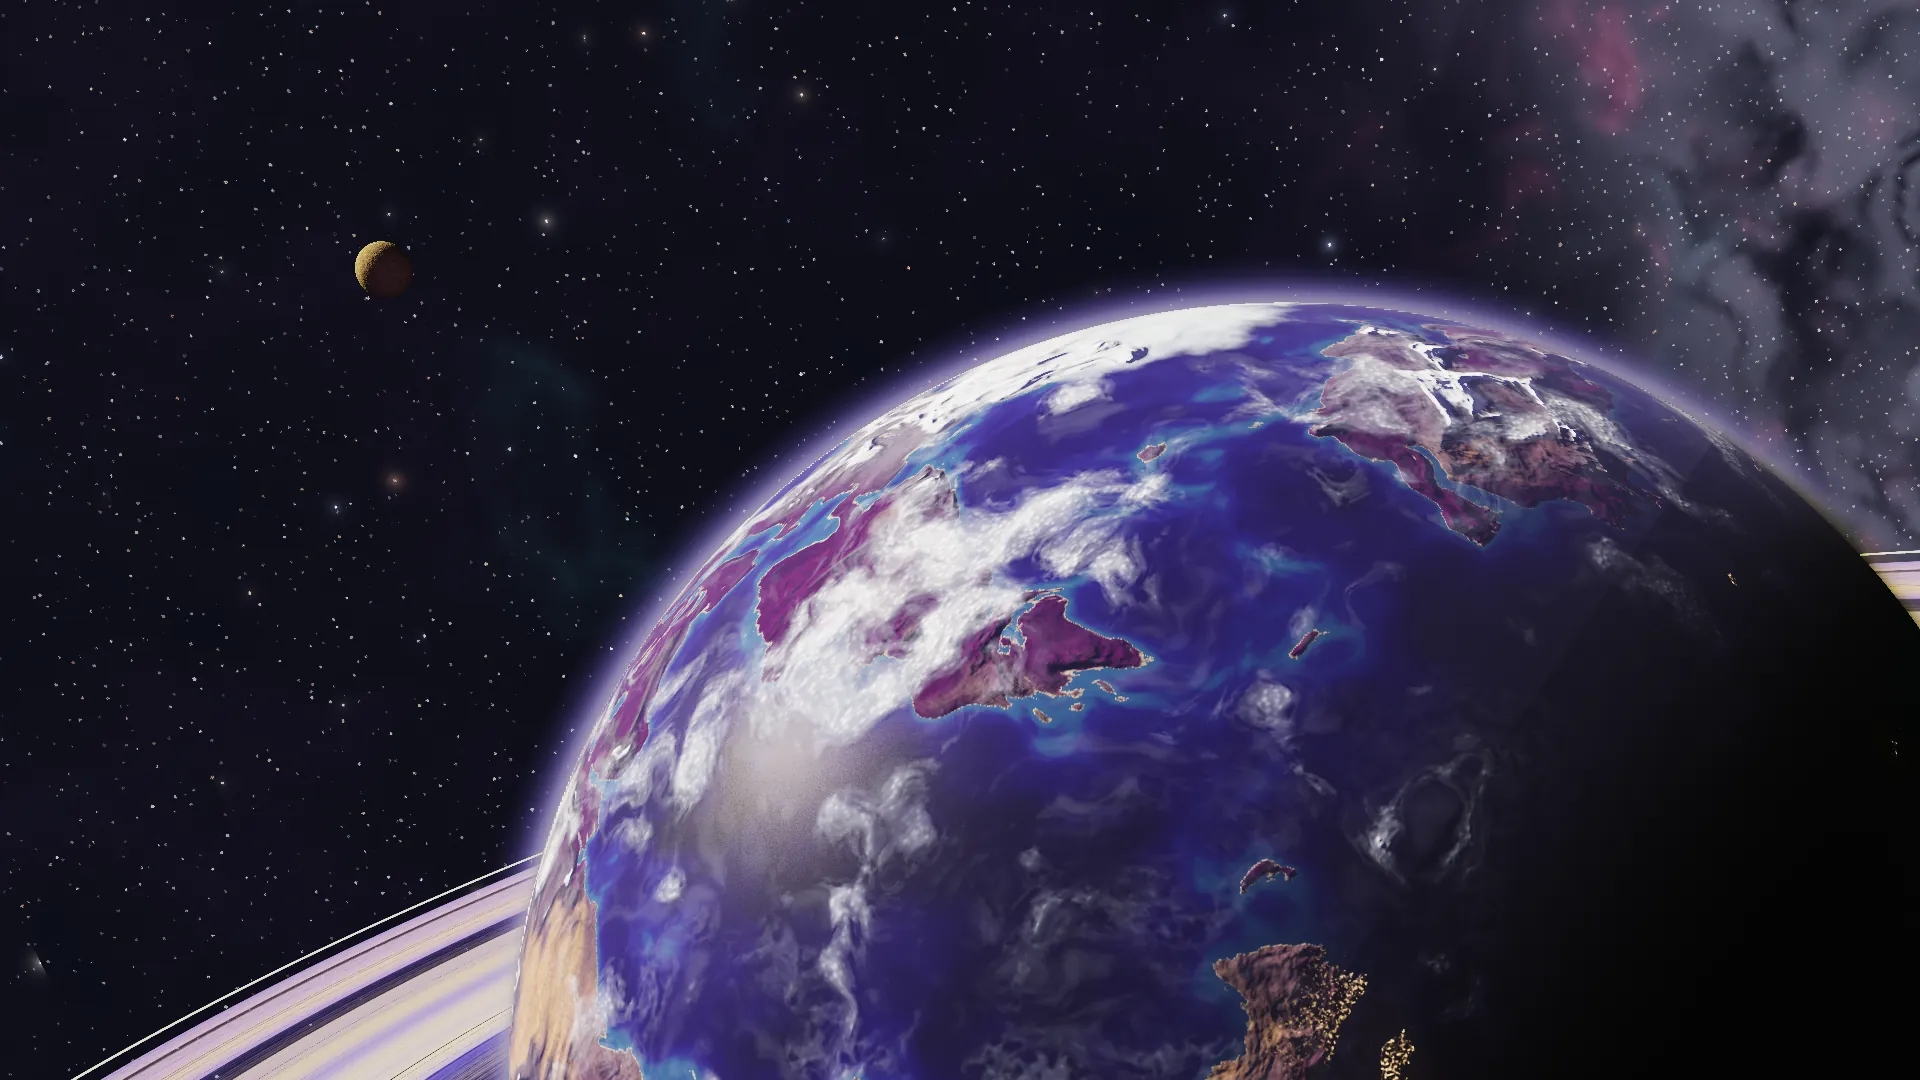
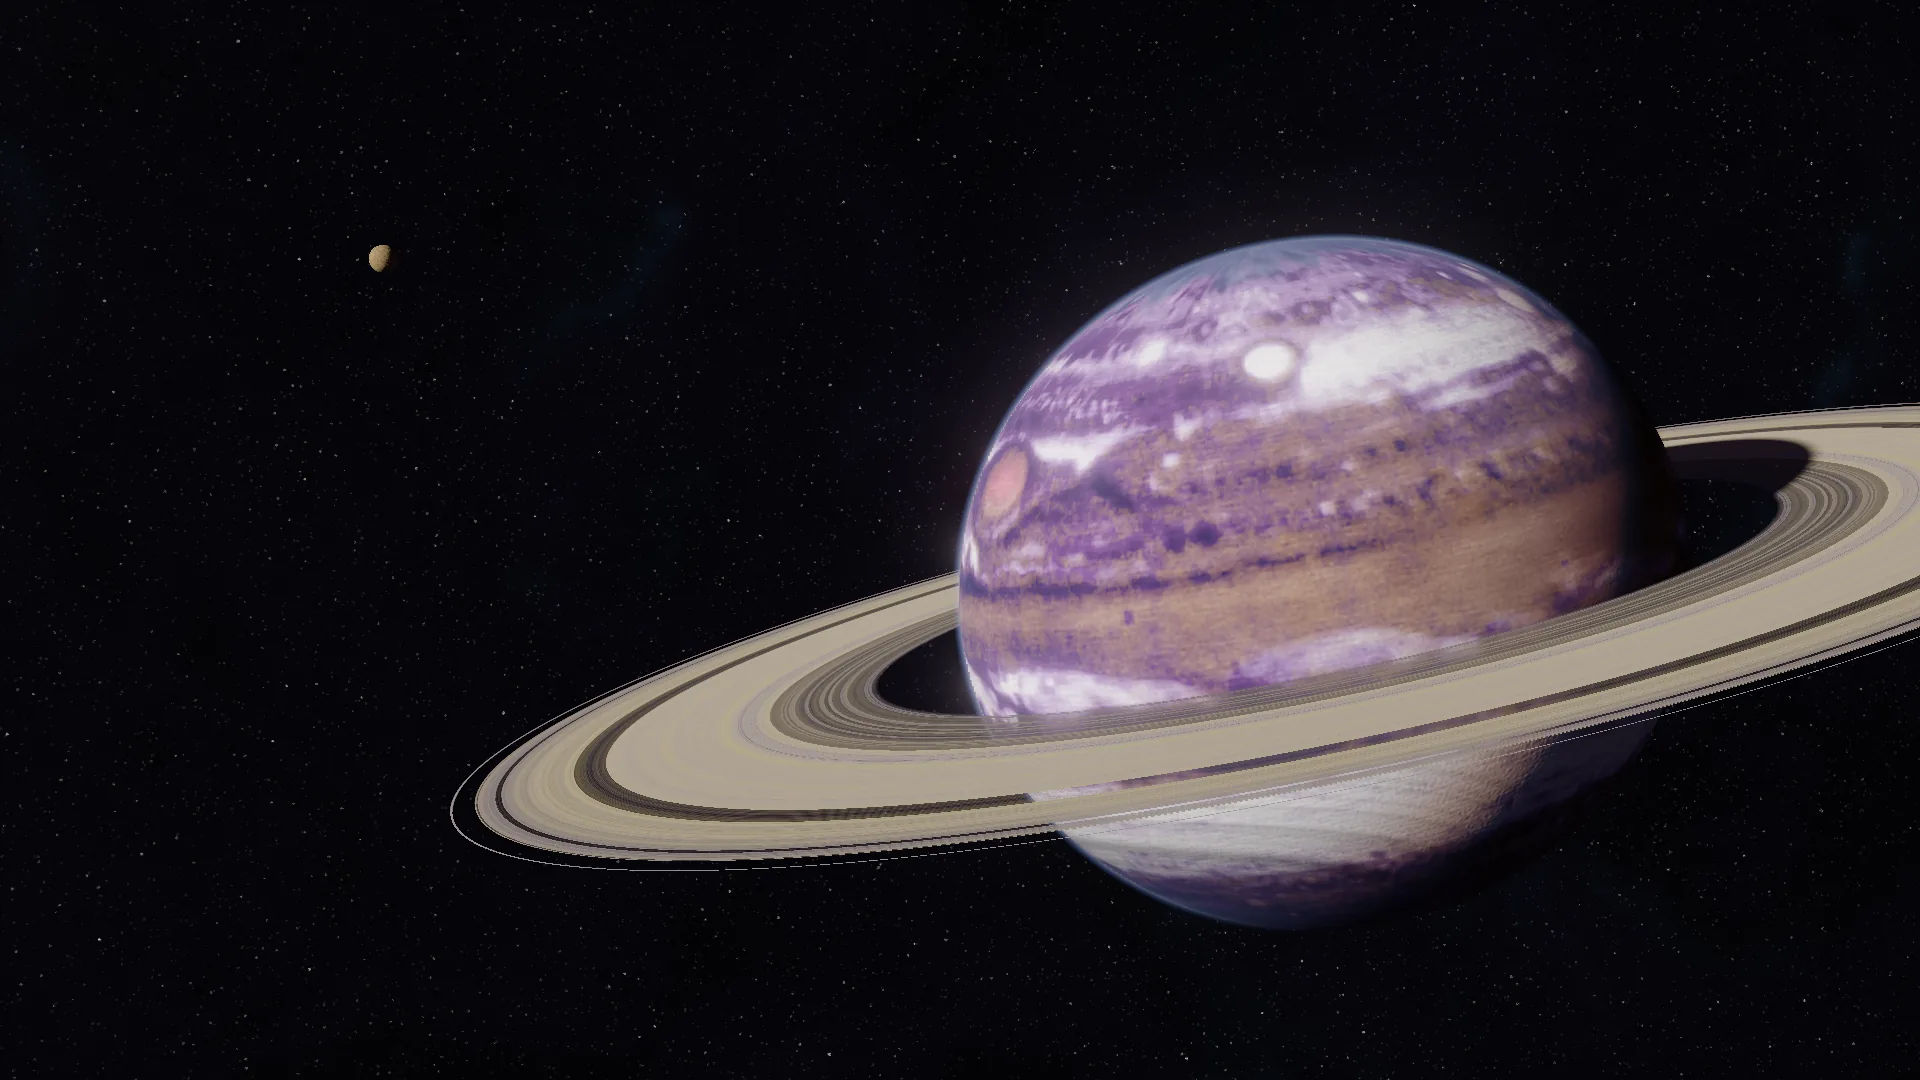
The install: a real cloud deck, a ringed giant at full view
The planet's clouds are NASA/JPL's map of Jupiter (NASA 3D Resources,
free and without copyright), regraded to violet, lilac and gold, its
great storm turned rose, the mosaic's seams taken out, written by
tools/gas-giant.py (which can still simulate a deck of its own). The
shot settles on the whole planet: lit from the front-left, its rings of
ringlets across it in warm light, the gold moon beyond, fewer and
fainter stars, as an exposure set for a sunlit planet would show. The
dive grows the planet a little sooner; the stills are redrawn; a line
credits the map.

Claude-Session: https://claude.ai/code/session_012Fnd9WmNXpFM67BjHTitR7

diff --git a/assets/js/world.js b/assets/js/world.js
@@ -145,7 +145,7 @@ vec3 sky(vec3 rd){
   vec2 uv2=vec2(fract(uv.x+0.5),uv.y), dx=dFdx(uv), dy=dFdy(uv), dx2=dFdx(uv2), dy2=dFdy(uv2);
   if(abs(dx2.x)<abs(dx.x))dx.x=dx2.x; if(abs(dy2.x)<abs(dy.x))dy.x=dy2.x;
   vec4 s=textureGrad(uSky,uv,dx,dy);
-  vec3 c=s.rgb*0.55+stars(d,s.a)*0.16;
+  vec3 c=s.rgb*0.5+stars(d,s.a)*0.09;
   float a=acos(clamp(dot(rd,uSun),-1.0,1.0));
   c+=vec3(1.0,0.97,0.9)*4000.0*smoothstep(0.0052,0.0046,a);
   return c;
@@ -170,7 +170,7 @@ vec4 ring(vec3 ro,vec3 rd,out float t){
   float sh=lightThrough(X);
   float ph=dot(rd,uSun);
   vec3 c;
-  if(sign(lt.y)==sign(o3.y)) c=rs.rgb*SUNI*0.1*(mu0/(mu0+mu))*(0.8+0.4*(1.0-ph))*(0.55+0.45*smoothstep(0.0,0.7,rs.a));
+  if(sign(lt.y)==sign(o3.y)) c=rs.rgb*vec3(1.0,0.93,0.84)*SUNI*0.075*(mu0/(mu0+mu))*(0.8+0.4*(1.0-ph))*(0.5+0.5*smoothstep(0.0,0.7,rs.a));
   else { float g=0.6, hg=(1.0-g*g)/pow(1.0+g*g-2.0*g*ph,1.5); c=rs.rgb*SUNI*0.05*(1.0-exp(-tau/mu0))*exp(-tau*0.5/mu)*hg/max(a,0.02); }
   c*=sh;
   /* the planet's own light on the ring's dark side */
@@ -201,6 +201,14 @@ vec3 cloudDeck(vec3 P,vec3 rd){
   if(abs(dx2.x)<abs(dx.x))dx.x=dx2.x; if(abs(dy2.x)<abs(dy.x))dy.x=dy2.x;
   vec4 a=textureGrad(uAlb,uv,dx,dy);
   vec3 alb=a.rgb;
+  /* finer than the map: streaks drawn out along the bands, fading where they would shimmer */
+  float px=length(dx)*uAlbSize.x;
+  float near=1.0-smoothstep(0.6,2.5,px);
+  if(near>0.0){
+    vec3 sp=pp*vec3(1.0,3.2,1.0);
+    float d=snoise(sp*900.0)*0.6+snoise(sp*2300.0+7.0)*0.4;
+    alb*=1.0+0.035*d*near;
+  }
   /* the deck's relief: bright cloud stands a little higher */
   float coslat=max(sqrt(1.0-pp.y*pp.y),0.05);
   vec2 ex=vec2(max(1.0/uAlbSize.x,abs(dx.x)+abs(dy.x)),0.0), ey=vec2(0.0,max(1.0/uAlbSize.y,abs(dx.y)+abs(dy.y)));

diff --git a/assets/js/install.js b/assets/js/install.js
@@ -29,7 +29,7 @@ function bezier(x1, y1, x2, y2) {
   };
 }
 /* the shot is slow on purpose: a long ease into the move, a long glide, a long settle */
-const easeDolly = bezier(0.72, 0, 0.18, 1), easeTurn = bezier(0.5, 0, 0.3, 1), easeAim = bezier(0.6, 0, 0.3, 1);
+const easeDolly = bezier(0.5, 0, 0.2, 1), easeTurn = bezier(0.5, 0, 0.3, 1), easeAim = bezier(0.6, 0, 0.3, 1);
 
 /* vectors and 3×3 rotations (row-major; uploaded transposed) */
 const add = (a, b) => [a[0] + b[0], a[1] + b[1], a[2] + b[2]];
@@ -50,10 +50,10 @@ const mv = (A, v) => [A[0] * v[0] + A[1] * v[1] + A[2] * v[2], A[3] * v[0] + A[4
    the planet sits at rest on the screen (its centre from the screen's centre,
    y up, and its radius, in screen heights; the moon's place likewise) */
 export const TUNE = {
-  sun: [-0.85, 0.1, -0.2], tiltZ: 0.38, tiltX: -0.12, sky: [2.2, -0.2],
-  rest: { az: 0.0, el: 0.36, roll: 0.16, d: 4.4 }, from: { az: -0.8, el: 0.6, roll: 0.4 },
-  land: { R: 0.5, cx: 0.16, cy: -0.17, moon: [-0.32, 0.28], moonR: 6.0 },
-  port: { R: 0.34, cx: 0.12, cy: -0.36, moon: [-0.26, 0.02], moonR: 5.0 },
+  sun: [-0.72, 0.32, 0.55], tiltZ: 0.38, tiltX: -0.12, sky: [1.2, 0.6],
+  rest: { az: 0.0, el: 0.3, roll: 0.18, d: 6.5 }, from: { az: -0.8, el: 0.55, roll: 0.4 },
+  land: { R: 0.34, cx: 0.19, cy: -0.04, moon: [-0.3, 0.26], moonR: 8.0 },
+  port: { R: 0.2, cx: 0.1, cy: -0.2, moon: [-0.3, 0.02], moonR: 8.0 },
 };
 let SUN, TILT, TO_TILT, SKY, REST, FROM;
 function world0() {

diff --git a/assets/site.css b/assets/site.css
@@ -1039,6 +1039,9 @@ body.withdrawing .pad.docs .reader{animation:chromeout .45s ease both}
 #installpad .from{margin:16px 2px 0;font:13.5px/1.6 var(--ui);color:rgba(214,210,232,.7);max-width:46ch}
 #installpad .from code{font:12.5px var(--mono);color:rgba(236,232,248,.85)}
 #installpad .doorfoot.by{z-index:3;color:rgba(214,210,232,.55)}
+#installpad .credit{position:absolute;z-index:3;right:24px;bottom:calc(18px + env(safe-area-inset-bottom,0px));margin:0;font:10.5px/1.4 var(--mono);letter-spacing:.04em;color:rgba(214,210,232,.42);max-width:calc(100% - 48px);text-align:right}
+#installpad.forming .credit{opacity:0}
+@media (max-width:560px){#installpad .credit{bottom:calc(46px + env(safe-area-inset-bottom,0px))}}
 #installpad .doorfoot.by a{color:rgba(214,210,232,.75)}
 @media (max-aspect-ratio:10/11){
   #installpad .scrim{background:linear-gradient(180deg,rgba(3,4,10,.6),rgba(3,4,10,.2) 45%,transparent 60%)}

diff --git a/index.html b/index.html
@@ -317,6 +317,7 @@
       <p class="theline"><code data-copy="curl -fsSL https://raw.githubusercontent.com/tomlawesome/orbit/main/scripts/get-orbit.sh | bash" title="Copy"><span class="prompt">$</span>curl -fsSL https://raw.githubusercontent.com/tomlawesome/orbit/main/scripts/get-orbit.sh | bash</code><button class="copy" type="button" data-copy="curl -fsSL https://raw.githubusercontent.com/tomlawesome/orbit/main/scripts/get-orbit.sh | bash" aria-label="Copy the install command">copy</button></p>
       <p class="from">From an empty directory on a Linux host with Docker Compose v2 and <code>curl</code>.</p>
     </div>
+    <p class="credit">The planet's clouds are NASA/JPL's map of Jupiter, recoloured.</p>
     <p class="doorfoot by">A <a href="https://tomlawson.io">tomlawson.io</a> project</p>
   </div>
   <div class="pad docs" id="docspad" hidden>

diff --git a/tools/gas-giant.py b/tools/gas-giant.py
@@ -35,6 +35,8 @@ ap.add_argument("--seed", type=int, default=1729)
 ap.add_argument("--beta", type=float, default=150.0)
 ap.add_argument("--jet", type=float, default=1.0)
 ap.add_argument("--ovals", type=int, default=22)
+ap.add_argument("--stir", type=float, default=1.0)
+ap.add_argument("--base", default=None, help="a real planet's map to start from (equirectangular); its bands set the jets")
 args = ap.parse_args()
 
 W = 4
@@ -105,9 +107,52 @@ for i, c in enumerate(colours):
 soft = lambda a: inv(fwd(a) * np.exp(-(k / 300) ** 2))
 band_rgb = np.dstack([soft(band_rgb[..., j]) for j in range(3)])
 band_tone = soft(band_tone)
+# texture at every scale inside the bands: long streaks, shorter ones, puffs of cloud
 streak = noise(streaky(24, 120, 10), 1.0)
-band_rgb *= (1 + 0.07 * streak)[..., None]
+fine = noise(streaky(120, 500, 60), 1.0)
+puffs = noise(ring(150, 600), 1.0)
+band_rgb *= (1 + 0.09 * streak + 0.07 * fine + 0.05 * puffs)[..., None]
 band_tone += 0.05 * streak
+
+# OR A REAL PLANET'S MAP: its light and its warmth, regraded to violet and gold; its bands set the jets
+if args.base:
+    base = np.asarray(Image.open(args.base).convert("RGB").resize((NX, NY), Image.BICUBIC), dtype=float)[::-1] / 255.0
+    # the mosaic's seams: steps from column to column that the planet does not have
+    from scipy.ndimage import gaussian_filter1d
+    rows = np.abs(lat) < 1.2
+    cols = base[rows].mean(axis=0)
+    base = np.clip(base - (cols - gaussian_filter1d(cols, NX / 60, axis=0, mode="wrap"))[None, :, :], 0, 1)
+    lin = base ** 2.2
+    Lb = (0.2126 * lin[..., 0] + 0.7152 * lin[..., 1] + 0.0722 * lin[..., 2])
+    Lb = (Lb - np.percentile(Lb, 2)) / (np.percentile(Lb, 98) - np.percentile(Lb, 2)); Lb = np.clip(Lb, 0, 1)
+    rb = (base[..., 0] - base[..., 2]) / (base[..., 0] + base[..., 2] + 1e-3)
+    warmth = np.clip((rb - np.percentile(rb, 60)) / (np.percentile(rb, 97) - np.percentile(rb, 60)), 0, 1)   # only where it is warmer than the planet is
+    stops = [(0.0, srgb(34, 16, 52)), (0.3, srgb(88, 44, 104)), (0.55, srgb(160, 120, 184)), (0.8, srgb(222, 208, 236)), (1.0, srgb(246, 240, 250))]
+    def grade(v):
+        out = np.zeros(v.shape + (3,))
+        for (a, ca), (b, cb) in zip(stops[:-1], stops[1:]):
+            m = (v >= a) & (v <= b); t_ = ((v - a) / (b - a))[m][..., None]; out[m] = ca + (cb - ca) * t_
+        return out
+    v = Lb ** 0.85
+    band_rgb = grade(v)
+    gold = (srgb(140, 92, 48) + (srgb(244, 214, 158) - srgb(140, 92, 48)) * v[..., None])
+    band_rgb = band_rgb + (gold - band_rgb) * (warmth * 0.6)[..., None]
+    rg = base[..., 0] - base[..., 1]
+    # the great storm turns rose: the reddest oval, found where the red is broadest, and only there
+    from scipy.ndimage import gaussian_filter
+    rgs = gaussian_filter(rg, (NY / 120, NX / 120), mode="wrap")
+    cy_, cx_ = np.unravel_index(np.argmax(rgs * (np.abs(LAT) < 0.8)), rgs.shape)
+    near = np.exp(-(((X - x[cx_] + np.pi) % L - np.pi) ** 2 / 0.12 ** 2 + (LAT - lat[cy_]) ** 2 / 0.06 ** 2))
+    red = np.clip((rg - np.percentile(rg, 90)) / (np.percentile(rg, 99.5) - np.percentile(rg, 90) + 1e-6), 0, 1) * near
+    band_rgb = band_rgb + (srgb(200, 96, 128) - band_rgb) * (red * 0.8)[..., None]
+    band_rgb *= (1 + 0.05 * fine + 0.04 * puffs)[..., None]
+    band_tone = Lb
+    # the jets run along the sharpest edges of the bands
+    zm = Lb.mean(axis=1)
+    zm = np.convolve(zm, np.ones(9) / 9, mode="same")
+    grad = np.gradient(zm, lat)
+    edges = list(lat[1:-1][(np.abs(grad[1:-1]) > np.abs(grad[:-2])) & (np.abs(grad[1:-1]) >= np.abs(grad[2:])) & (np.abs(grad[1:-1]) > 0.6 * np.abs(grad).std()) & (np.abs(lat[1:-1]) < 1.3)])
+    strengths = [float(np.clip(abs(np.interp(e_, lat, grad)) / (3 * np.abs(grad).std()), 0.3, 1.4)) * (1 if np.interp(e_, lat, grad) > 0 else -1) for e_ in edges]
 
 # THE JETS: along the edges, each its own strength; a super-rotating equator
 def jets(l):
@@ -131,26 +176,31 @@ def oval(cx, cy, R, asp):
     return np.exp(-((dx / asp) ** 2 + dy ** 2) / R ** 2)
 anti = lat[(wJ_mean < -0.25 * np.abs(wJ_mean).max()) & (np.abs(lat) < 1.1)]
 cyc = lat[(wJ_mean > 0.25 * np.abs(wJ_mean).max()) & (np.abs(lat) < 1.0)]
+STORMS_ON = not args.base
 # the great storm: a rose oval with a pale collar, in the south
 UJm = UJ.mean(axis=1)
 calm = lat[(wJ_mean < 0) & (np.abs(UJm) < 0.25 * np.abs(UJm).max()) & (lat < -0.18) & (lat > -0.75)]
 SLAT = calm[np.argmin(np.abs(calm + 0.38))] if len(calm) else -0.38; SLON = np.pi - 1.7
-g = oval(SLON, SLAT, 0.1, 2.0); core = oval(SLON, SLAT, 0.07, 2.0)
+g = oval(SLON, SLAT, 0.1, 2.0) * STORMS_ON; core = oval(SLON, SLAT, 0.07, 2.0) * STORMS_ON
 w += -1.3 * WMAX * g
 collar = np.clip(g - core, 0, 1) * 1.6
 rgb = rgb * (1 - np.clip(collar, 0, 1))[..., None] + srgb(240, 228, 230) * np.clip(collar, 0, 1)[..., None]
 rgb = rgb * (1 - core)[..., None] + srgb(196, 92, 118) * core[..., None]
 tone = tone * (1 - g) + g
 # white ovals in the zones, dark barges in the belts
-for i in range(args.ovals):
+for i in range(args.ovals if STORMS_ON else 0):
     cy = rng.choice(anti); cx = rng.uniform(0, L); R = 0.012 + 0.018 * rng.random()
     g = oval(cx, cy, R, 1.3 + 0.5 * rng.random()); w += -0.8 * WMAX * g
     rgb = rgb * (1 - 0.9 * g)[..., None] + srgb(246, 242, 246) * (0.9 * g)[..., None]; tone = tone * (1 - g) + g
-for i in range(args.ovals // 3):
+for i in range(args.ovals // 3 if STORMS_ON else 0):
     cy = rng.choice(cyc); cx = rng.uniform(0, L); R = 0.008 + 0.008 * rng.random()
     g = oval(cx, cy, R, 2.2); w += 0.7 * WMAX * g
     rgb = rgb * (1 - 0.85 * g)[..., None] + srgb(58, 26, 52) * (0.85 * g)[..., None]; tone = tone * (1 - g)
 
+# where the belts boil: the strong jets' flanks
+BOIL = np.zeros_like(LAT)
+for e_, s_ in zip(edges, strengths):
+    BOIL = np.maximum(BOIL, np.clip(abs(s_) - 0.5, 0, 1) * np.exp(-((LAT - e_) / 0.06) ** 2))
 w_hat = fwd(w)
 dyes = [fwd(rgb[..., 0]), fwd(rgb[..., 1]), fwd(rgb[..., 2]), fwd(tone)]
 dyes0 = [zonal_mean_hat(fwd(band_rgb[..., j])) for j in range(3)] + [zonal_mean_hat(fwd(band_tone))]
@@ -183,6 +233,9 @@ while T < args.time:
     dw2, dd2, _ = rhs(w1, d1)
     w_hat = (w_hat + 0.5 * dt * (dw1 + dw2)) * FILTER
     dyes = [(a + 0.5 * dt * (p + q)) * FILTER for a, p, q in zip(dyes, dd1, dd2)]
+    # stirring: small kicks of spin where the belts boil, so they break into fine filaments
+    if args.stir > 0 and step % 6 == 0:
+        w_hat = w_hat + fwd(noise(ring(50, 140), 1.0) * BOIL) * (args.stir * 0.02 * WMAX)
     if step % 100 == 0:
         print(f"step {step}  t {T:.3f}/{args.time}  dt {dt:.5f}  umax {umax:.2f}  {time.time() - t0:.0f}s", flush=True)
     step += 1
@@ -198,6 +251,9 @@ c *= (0.98 + 0.04 * noise(ring(150, 400)))[..., None]
 def to8(a): return (np.clip(a, 0, 1) ** (1 / 2.2) * 255 + 0.5).astype(np.uint8)
 img = Image.fromarray(to8(c)[::-1], "RGB")
 big = img.resize((args.size, args.size // 2), Image.LANCZOS) if args.size != NX else img
+if args.base:
+    from PIL import ImageFilter
+    big = big.filter(ImageFilter.UnsharpMask(radius=2.5, percent=70, threshold=1))   # the real map is softer than the screen
 if args.preview:
     big.save(args.preview)
 if args.out:
